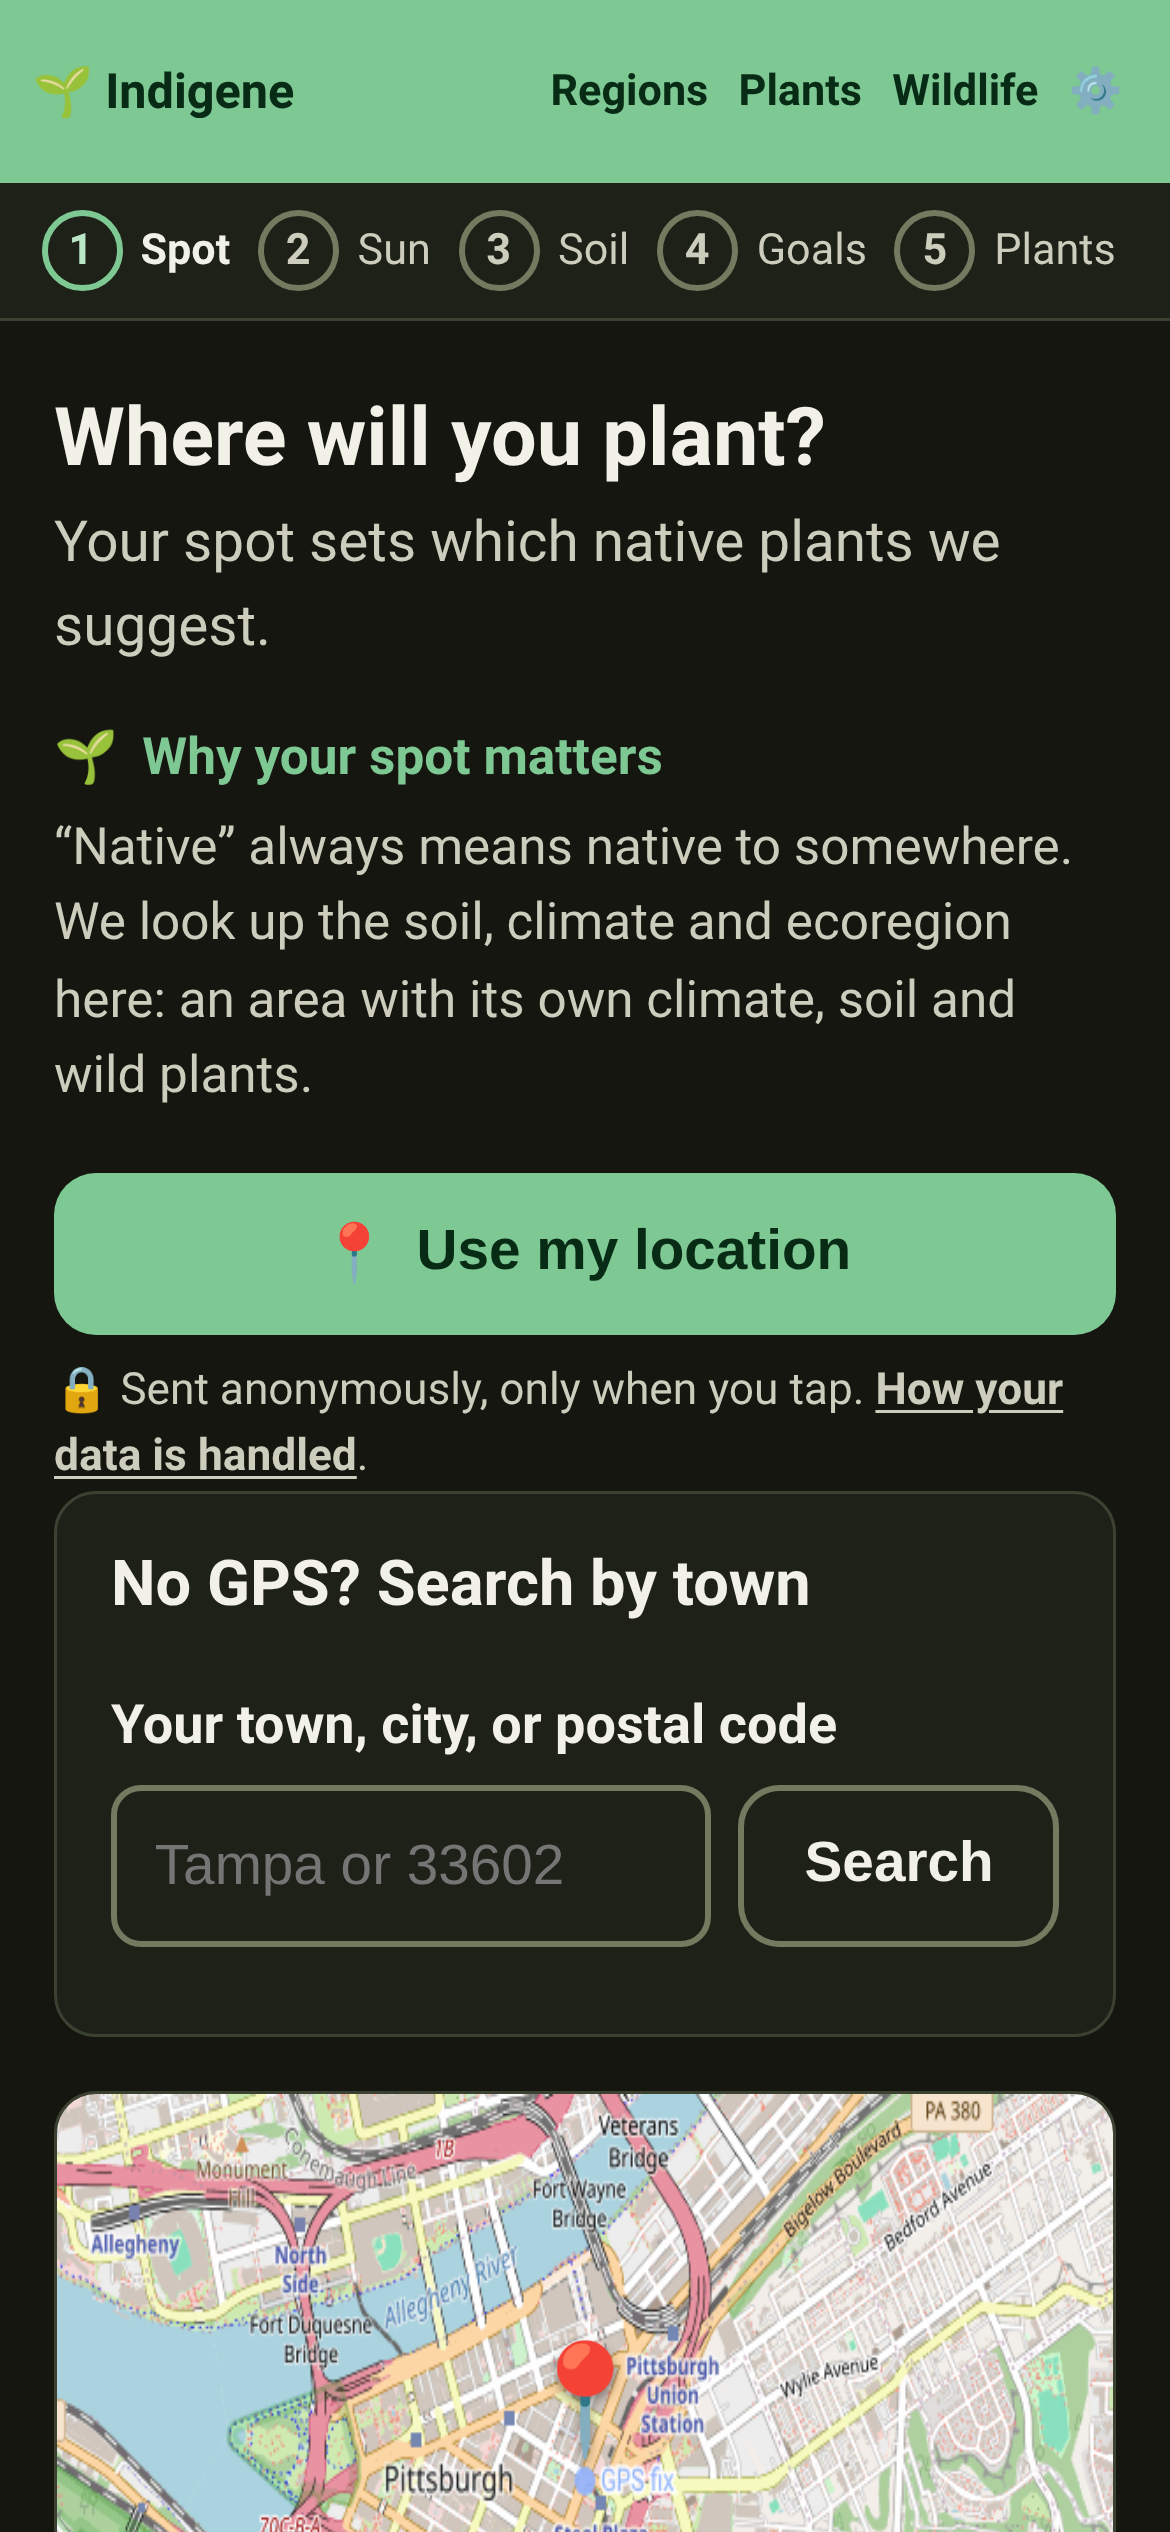
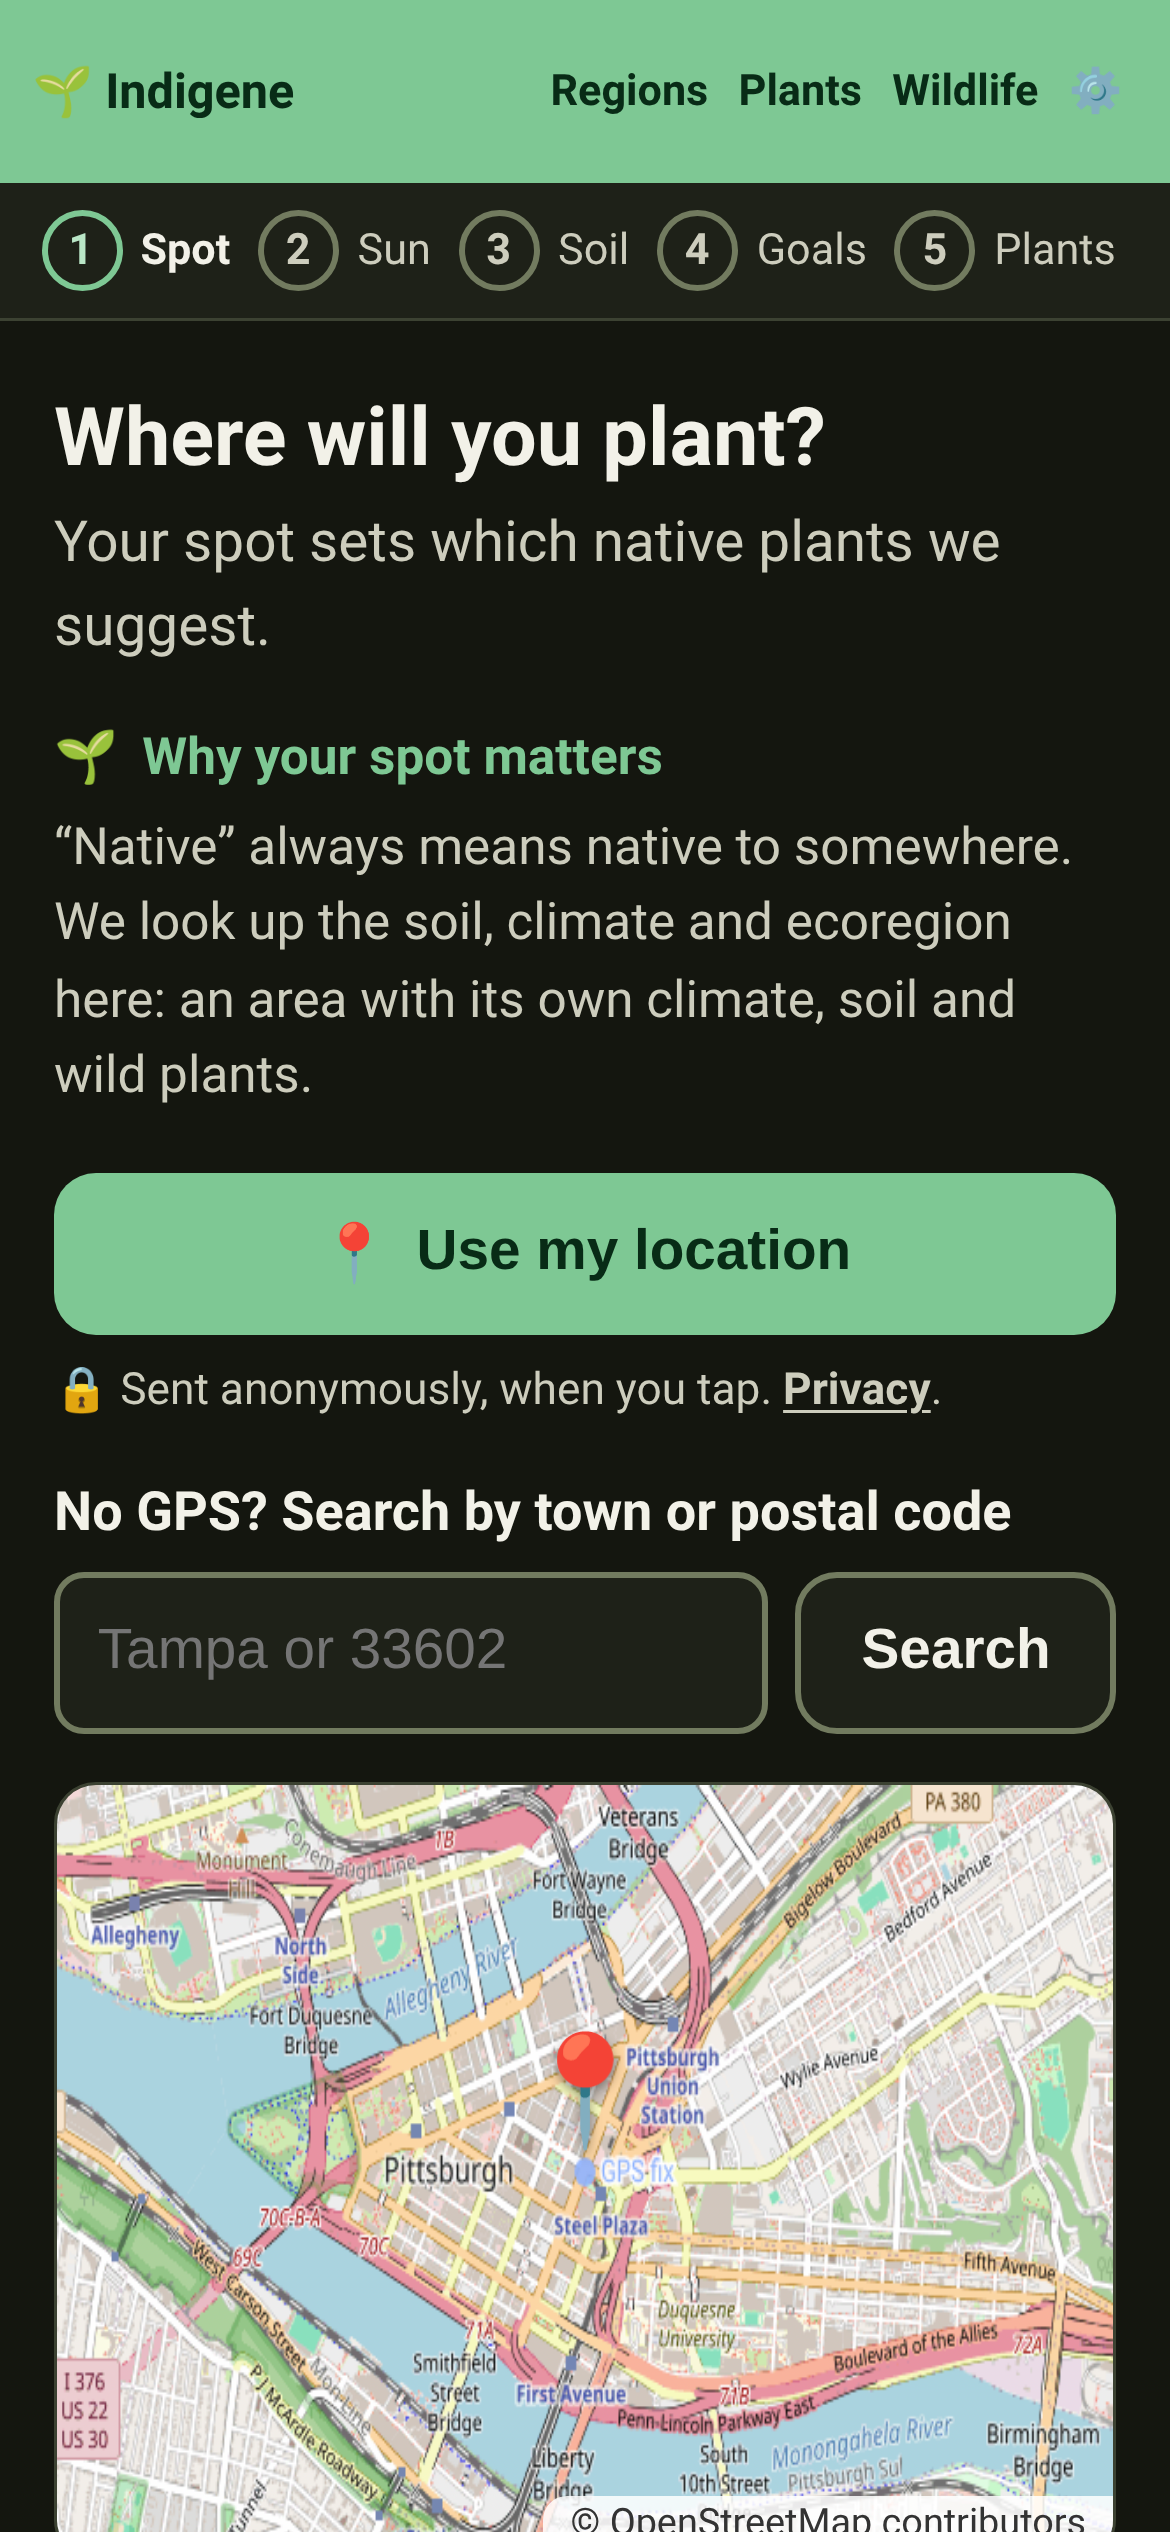
Location: town search as a label and one row; privacy note on one line
The search card's own heading, label and padding took three lines more
than a single field needs. It is now one label ("No GPS? Search by town
or postal code") over the input and button.

The privacy note under "Use my location" wrapped to two lines; it now
reads "Sent anonymously, when you tap. Privacy." and fits at 360 px in
English and French.

Claude-Session: https://claude.ai/code/session_01DehPZhpNFEJZrSzDHiZrD6

Changed region(s): [[0.0308, 0.5616, 0.9538, 1.0], [0.4308, 0.5304, 0.9231, 0.5616]]

diff --git a/app/src/steps/location.ts b/app/src/steps/location.ts
@@ -444,10 +444,8 @@ export async function renderLocation(main: HTMLElement): Promise<(() => void) | 
     id: "place-q",
     autocomplete: "off",
     placeholder: t("location.searchPlaceholder"),
-    // Shares a row with the button: shrinkable, takes the leftover width.
-    style: "flex:1 1 auto;min-width:0",
   }) as HTMLInputElement;
-  const searchBtn = el("button", { class: "btn btn-secondary", style: "flex:none" }, t("location.search")) as HTMLButtonElement;
+  const searchBtn = el("button", { class: "btn btn-secondary" }, t("location.search")) as HTMLButtonElement;
   const searchOut = el("div", { "aria-live": "polite" });
 
   function pickPlace(p: GeoPlace): void {
@@ -514,15 +512,15 @@ export async function renderLocation(main: HTMLElement): Promise<(() => void) | 
     }
   }
 
-  const searchCard = el("div", { class: "card" }, [
-    el("h3", {}, t("location.searchTitle")),
+  // A label and one row, not a card: it sits right under the GPS button as
+  // the other half of the same question, and a card of its own made it look
+  // like a second step.
+  const searchCard = el("div", { class: "place-search" }, [
     el("form", {
       onSubmit: (e: Event) => { e.preventDefault(); void doSearch(); },
     }, [
-      el("div", { class: "field", style: "margin-bottom:0.6rem" }, [
-        el("label", { for: "place-q" }, t("location.searchLabel")),
-        el("div", { style: "display:flex;gap:0.5rem" }, [searchInput, searchBtn]),
-      ]),
+      el("label", { for: "place-q" }, t("location.searchInline")),
+      el("div", { class: "place-search-row" }, [searchInput, searchBtn]),
     ]),
     searchOut,
   ]);
@@ -688,7 +686,7 @@ export async function renderLocation(main: HTMLElement): Promise<(() => void) | 
     el("p", { class: "step-lede" }, t("location.lede")),
     whyThis(t("location.whyTitle"), t("location.why")),
     locateBtn,
-    privacyNote(t("location.privacy"), undefined, "location"),
+    privacyNote(t("location.privacy"), t("location.privacyLink"), "location"),
     searchCard,
     mapBlock,
     regionCard,

diff --git a/app/src/locales/fr.ts b/app/src/locales/fr.ts
@@ -595,7 +595,9 @@ export const fr: Dict = {
   "location.update": "📍 Actualiser ma position",
   "location.locating": "Localisation…",
   "location.none": "Pas encore de position.",
-  "location.privacy": "Envoyée anonymement, seulement quand vous touchez le bouton.",
+  "location.privacy": "Envoi anonyme, au toucher.",
+  "location.privacyLink": "Vie privée",
+  "location.searchInline": "Pas de GPS ? Cherchez votre commune",
   "location.mapHint":
     "Faites glisser ou touchez la carte pour placer le repère sur votre lieu. Restez appuyé pour l'ajuster finement.",
   "location.mapLabel":
@@ -631,7 +633,6 @@ export const fr: Dict = {
     "Cet appareil ne peut pas partager sa position. Essayez la recherche par commune.",
   "location.denied": "Position refusée. Essayez la recherche par commune.",
   "location.noFix": "Impossible d'obtenir un point. Réessayez, ou passez à la recherche par commune.",
-  "location.searchTitle": "Pas de GPS ? Cherchez votre commune",
   "location.searchLabel": "Votre commune, ville ou code postal",
   "location.searchPlaceholder": "ex. Nantes, ou 44000",
   "location.search": "Rechercher",

diff --git a/app/src/locales/en.ts b/app/src/locales/en.ts
@@ -594,7 +594,9 @@ export const en = {
   "location.update": "📍 Update my location",
   "location.locating": "Locating…",
   "location.none": "No location yet.",
-  "location.privacy": "Sent anonymously, only when you tap.",
+  "location.privacy": "Sent anonymously, when you tap.",
+  "location.privacyLink": "Privacy",
+  "location.searchInline": "No GPS? Search by town or postal code",
   "location.mapHint":
     "Drag or tap the map to put the pin on your spot. Press and hold to fine-tune.",
   "location.mapLabel":
@@ -635,7 +637,6 @@ export const en = {
   "location.noGeolocation": "This device can't share location. Try the town search instead.",
   "location.denied": "Location denied. Try the town search instead.",
   "location.noFix": "Couldn't get a fix. Try again, or switch to the town search.",
-  "location.searchTitle": "No GPS? Search by town",
   "location.searchLabel": "Your town, city, or postal code",
   "location.searchPlaceholder": "Tampa or 33602",
   "location.search": "Search",

diff --git a/app/src/styles.css b/app/src/styles.css
@@ -4478,6 +4478,27 @@ details.weights:has(> summary.control-row) { padding-left: 0.9rem; padding-right
 /* --- Privacy reassurance line (under a location/save control) --- */
 /* Quiet by design: it's a standing promise, not a warning, so it sits in muted
    text and doesn't compete with the control above it. */
+/* The town search on the location page: a label and one row under the GPS
+   button, not a card of its own. */
+.place-search {
+  margin: 0.9rem 0 0;
+}
+.place-search label {
+  display: block;
+  font-weight: 600;
+  margin-bottom: 0.35rem;
+}
+.place-search-row {
+  display: flex;
+  gap: 0.5rem;
+}
+.place-search-row input {
+  flex: 1 1 auto;
+  min-width: 0;
+}
+.place-search-row .btn {
+  flex: none;
+}
 .privacy-note {
   margin: 0.4rem 0 0;
   font-size: 0.82rem;
